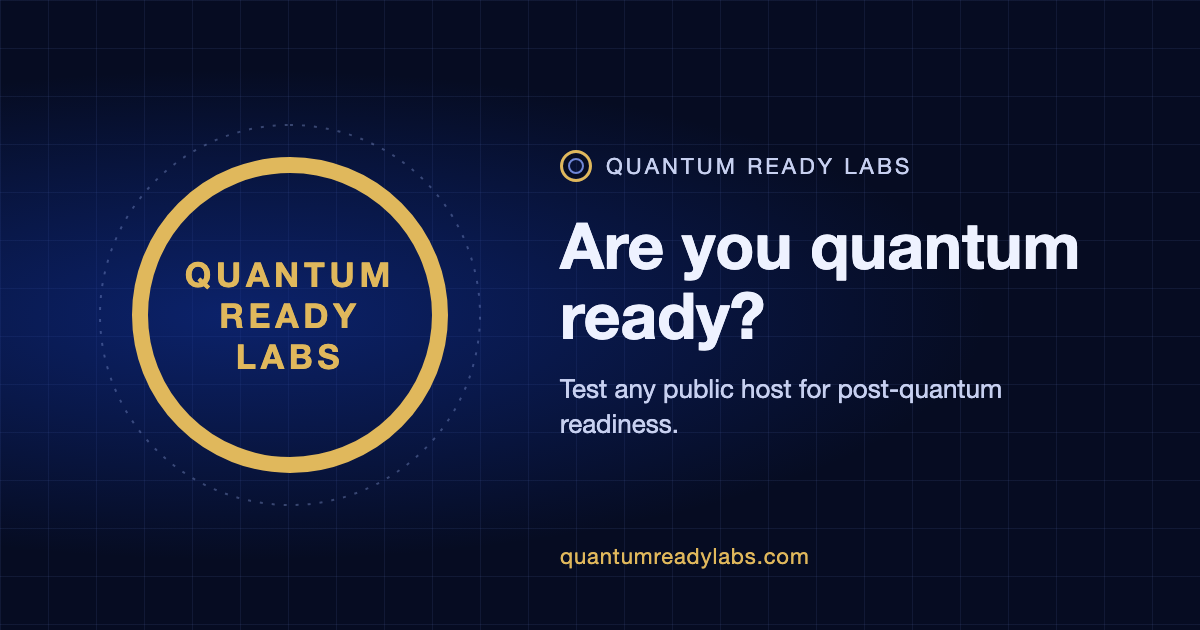
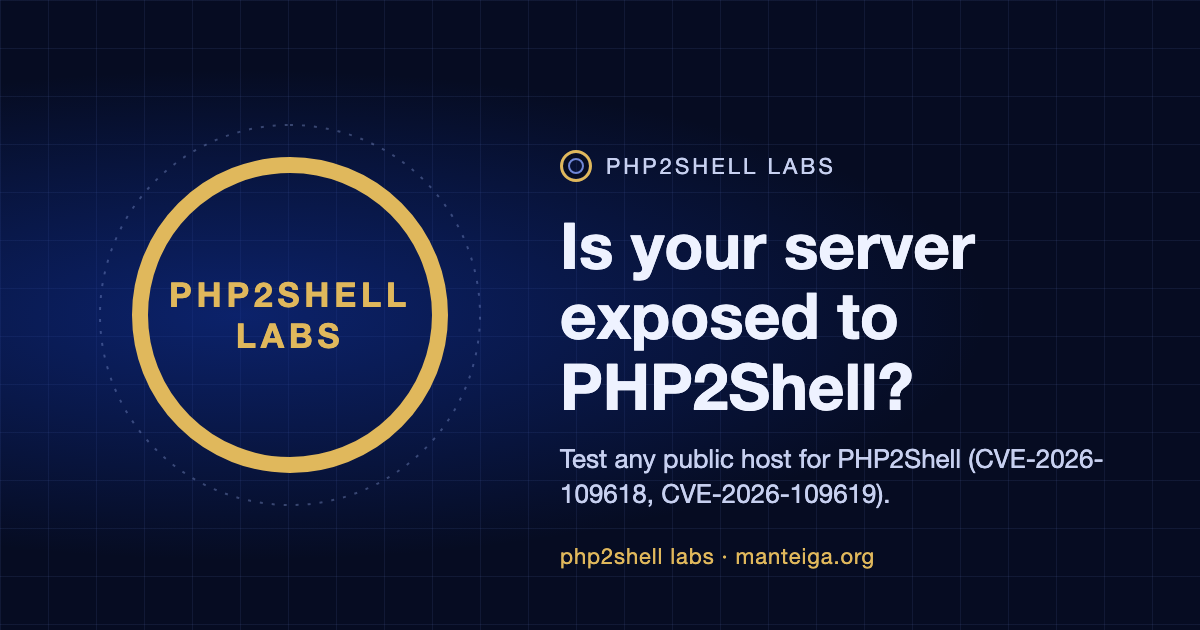
Edge documents: openapi.json, llms.txt and the link-preview images for the seven stages
The OpenAPI 3.1 description names the validate consent flag on POST and GET, the stage enum
pinned against the engine, nullable scores and the four note ids; llms.txt states the limits
in one screen; tests/openapi.test.ts keeps the three in step with the worker's routes. The
Open Graph cards are rendered per stage from one template, titled in words that read ('This
host has no patch', 'This host hides its PHP version'), not the stage id.

diff --git a/scripts/og-images.ts b/scripts/og-images.ts
@@ -1,43 +1,29 @@
-// Link-preview images, one per stage plus the default and one per study: 1200x630, rendered
-// from a template in Chromium. `bun run scripts/og-images.ts` writes web/public/og/*.png.
+// Link-preview images, one per stage plus the default: 1200x630, rendered from a template in
+// Chromium. `bun run scripts/og-images.ts` writes web/public/og/*.png.
 import { chromium } from 'playwright';
 import { mkdirSync } from 'node:fs';
-import { parseStudyCsv, STUDY_META, summarize } from '../web/src/study-model';
 
 interface Card {
   word: string;
   colour: string;
   line: string;
   score: string;
-  /** Overrides for study cards: the ring's fill, the small caption under the number, the title. */
+  /** The title on the right, with the stage word coloured; the ring's fill and caption when they differ from the score. */
+  h1?: string;
   pct?: number;
   of?: string;
-  h1?: string;
 }
 
 const STAGES: Record<string, Card> = {
-  default: { word: 'ARE YOU QUANTUM READY?', colour: '#e0b85c', line: 'Test any public host for post-quantum readiness.', score: '' },
-  exposed: { word: 'EXPOSED', colour: '#e05a4f', line: 'TLS 1.3 is not available. Sessions can be recorded today and decrypted later.', score: '27' },
-  'at-risk': { word: 'AT RISK', colour: '#e0b85c', line: 'Safe today; recordable now and decryptable when a large quantum computer exists.', score: '49' },
-  protected: { word: 'PROTECTED', colour: '#43b48a', line: 'Hybrid post-quantum key exchange accepted. Confidentiality protected.', score: '85' },
-  ready: { word: 'READY', colour: '#8fe0c0', line: 'Protected, and the foundations for the next step are in place.', score: '95' },
-  unreachable: { word: 'UNREACHABLE', colour: '#6b7698', line: 'No TLS server answered at this address.', score: '0' },
-  inconclusive: { word: 'INCONCLUSIVE', colour: '#9aa8d8', line: 'The server answered in a way the probes could not read with confidence.', score: '' },
+  default: { word: 'IS YOUR SERVER EXPOSED?', colour: '#e0b85c', line: 'Test any public host for PHP2Shell (CVE-2026-109618, CVE-2026-109619).', score: '' },
+  'no-patch': { word: 'NO PATCH', colour: '#e05a4f', h1: 'This host has <span style="color:#e05a4f">no patch</span>', line: 'PHP 5.4 through 8.1: inside the affected range on an end-of-life branch. Only an upgrade removes the flaw.', score: '15' },
+  exposed: { word: 'EXPOSED', colour: '#e8775f', h1: 'This host is <span style="color:#e8775f">exposed</span>', line: 'Inside the affected range, and a fixed release exists for the branch.', score: '35' },
+  hidden: { word: 'HIDDEN', colour: '#e0b85c', h1: 'This host <span style="color:#e0b85c">hides</span> its PHP version', line: 'PHP runs but hides its version. Treated as exposed until known otherwise.', score: '50' },
+  'not-affected': { word: 'NOT AFFECTED', colour: '#43b48a', h1: 'This host is <span style="color:#43b48a">not affected</span>', line: 'PHP older than 5.4: the vulnerable code does not exist in it.', score: '80' },
+  protected: { word: 'PROTECTED', colour: '#8fe0c0', h1: 'This host is <span style="color:#8fe0c0">protected</span>', line: 'A fixed PHP release (8.5.12, 8.4.27, 8.3.36, 8.2.35) or newer.', score: '100' },
+  'not-php': { word: 'NOT PHP', colour: '#9aa8d8', h1: 'This host is <span style="color:#9aa8d8">not PHP</span>', line: 'Nothing on this host answered as PHP. PHP2Shell does not apply to it.', score: '' },
+  unreachable: { word: 'UNREACHABLE', colour: '#6b7698', h1: 'This host is <span style="color:#6b7698">unreachable</span>', line: 'No web server answered at this address.', score: '' },
 };
-
-// One card per study, its figures computed from results.csv, never typed.
-for (const meta of Object.values(STUDY_META)) {
-  const s = summarize(parseStudyCsv(await Bun.file(`studies/${meta.slug}/results.csv`).text()));
-  STAGES[`study-${meta.slug}`] = {
-    word: 'PROTECTED OR READY',
-    colour: '#43b48a',
-    line: meta.lead,
-    score: String(s.protectedCount),
-    pct: s.protectedShare,
-    of: `OF ${s.total}`,
-    h1: meta.title.split(':')[0],
-  };
-}
 
 function html(stage: string): string {
   const s = STAGES[stage];
@@ -65,11 +51,11 @@ function html(stage: string): string {
     <circle cx="200" cy="200" r="190" fill="none" stroke="rgba(150,170,230,.35)" stroke-width="2" stroke-dasharray="3 9"/>
     <circle cx="200" cy="200" r="150" fill="none" stroke="rgba(150,170,230,.18)" stroke-width="10"/>
     <circle cx="200" cy="200" r="150" fill="none" stroke="${s.colour}" stroke-width="16" stroke-dasharray="${C}" stroke-dashoffset="${C * (1 - pct / 100)}"/>
-  </svg><div class="centre">${isDefault ? `<div class="word" style="font-size:34px">QUANTUM<br>READY<br>LABS</div>` : `<div class="word">${s.word}</div>${s.score ? `<div class="num">${s.score}</div><div class="of">${s.of ?? 'OF 100'}</div>` : ''}`}</div></div>
-  <div class="text"><div class="brand"><span class="mark"></span>Quantum Ready Labs</div>
-  <h1${s.h1 ? ' style="font-size:46px"' : ''}>${s.h1 ?? (isDefault ? 'Are you quantum ready?' : `This host is <span style="color:${s.colour}">${s.word.toLowerCase()}</span>`)}</h1>
-  <p${s.h1 ? ' style="font-size:24px"' : ''}>${s.line}</p></div>
-  <div class="url">quantumreadylabs.com</div>
+  </svg><div class="centre">${isDefault ? `<div class="word" style="font-size:34px">PHP2SHELL<br>LABS</div>` : `<div class="word">${s.word}</div>${s.score ? `<div class="num">${s.score}</div><div class="of">${s.of ?? 'OF 100'}</div>` : ''}`}</div></div>
+  <div class="text"><div class="brand"><span class="mark"></span>PHP2Shell Labs</div>
+  <h1>${s.h1 ?? (isDefault ? 'Is your server exposed to PHP2Shell?' : `This host is <span style="color:${s.colour}">${s.word.toLowerCase()}</span>`)}</h1>
+  <p>${s.line}</p></div>
+  <div class="url">php2shell labs · manteiga.org</div>
   </body></html>`;
 }
 

diff --git a/tests/openapi.test.ts b/tests/openapi.test.ts
@@ -16,12 +16,12 @@ const llms = await Bun.file('web/public/llms.txt').text();
 describe('the API description', () => {
   test('is OpenAPI 3 for the production origin, at the version of the package', async () => {
     expect(spec.openapi.startsWith('3.')).toBe(true);
-    expect(spec.servers[0].url).toBe('https://quantumreadylabs.com');
+    expect(spec.servers[0].url).toBe('https://php2shell-labs.taptok-test.workers.dev');
     const pkg = (await Bun.file('package.json').json()) as { version: string };
     const { ENGINE_VERSION } = await import('../engine/server');
     expect((spec as unknown as { info: { version: string } }).info.version).toBe(pkg.version);
     expect(ENGINE_VERSION).toBe(pkg.version);
-    expect(pkg.version).toMatch(/^1\.1\./);
+    expect(pkg.version).toMatch(/^0\.2\./);
   });
 
   test('names the public routes, each of which the edge serves', () => {
